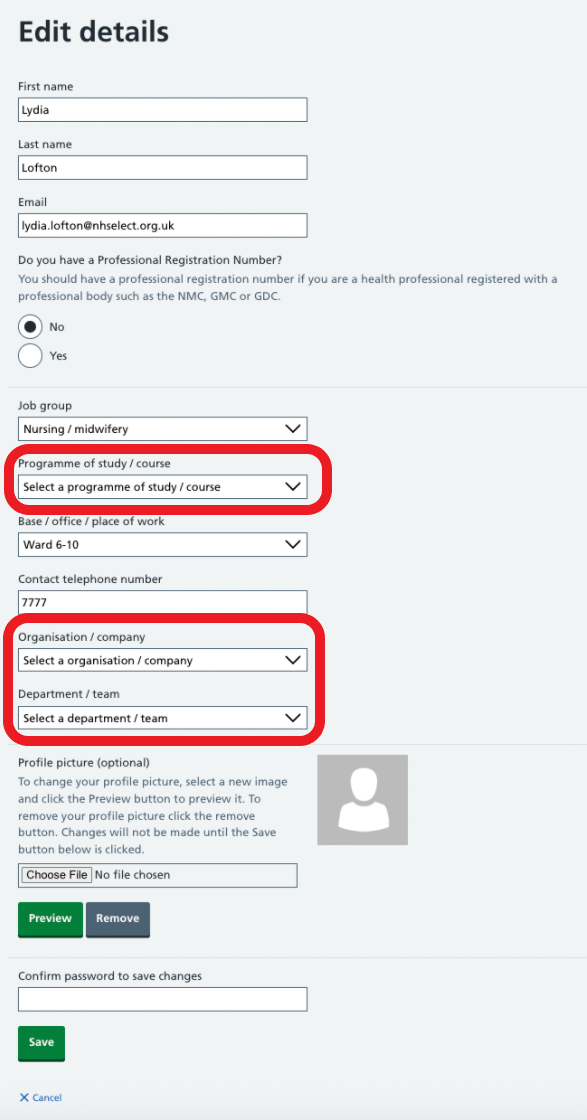
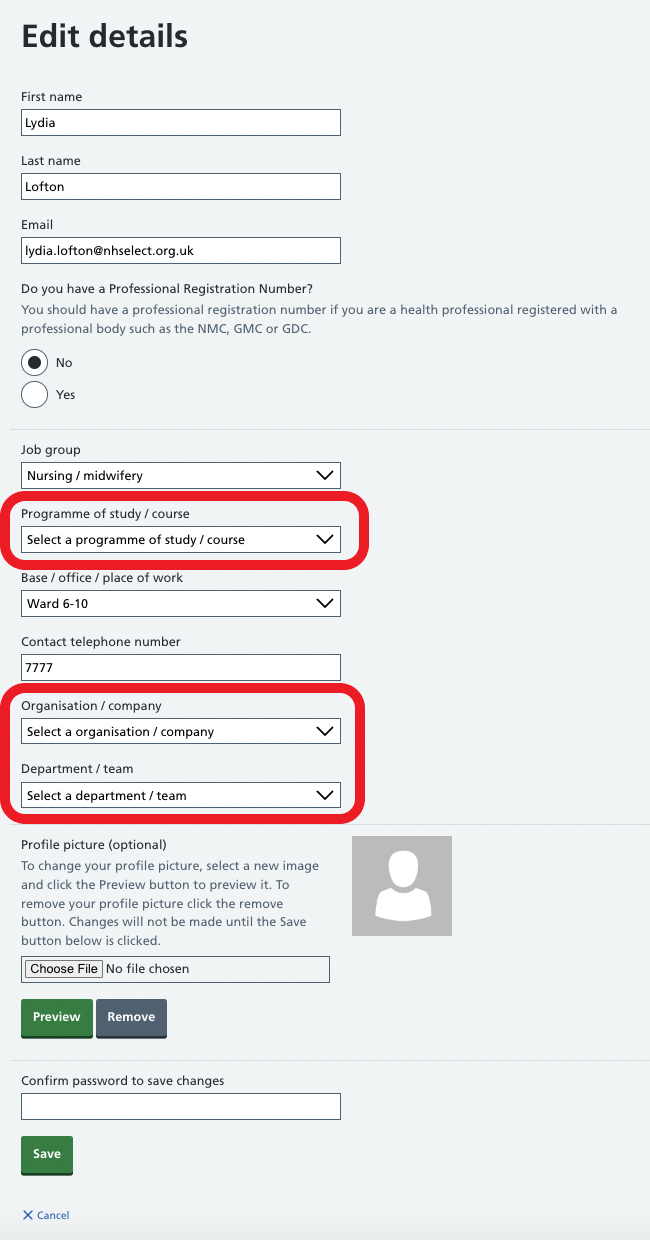
updated images, copied article to admin

diff --git a/content/user-guide/administrator/02-centre-management/managing-registration-prompts/answering-registration-prompts/index.md b/content/user-guide/administrator/02-centre-management/managing-registration-prompts/answering-registration-prompts/index.md
@@ -1,0 +1,26 @@
+---
+title: Answering registration prompts
+order: 1
+rating: true
+createdAt: 2022-12-08T10:20:27.187Z
+updatedAt: 2022-12-08T10:20:27.196Z
+---
+Once the **3 mandatory pre-existing prompts /answers** have been set up for your Centre, you will need to answer them for your own delegate account.
+
+> If you registered delegates or delegates self-registered before the registration prompts were set, you will also need to ask them to retrospectively answer the registration prompts via their '**My account**' page
+
+1. Select **My account** page
+
+![](/img/editing-profile_1.png)
+
+2. Select **Edit details**
+
+![](/img/answering-registration-prompts_1.png)
+
+3. Answer the **3 mandatory registration prompts** 
+
+![](/img/answering-registration-prompts_2.png)
+
+4. Type your **password** to confirm changes and select **Save**
+
+![](/img/answering-registration-prompts_3.png)
